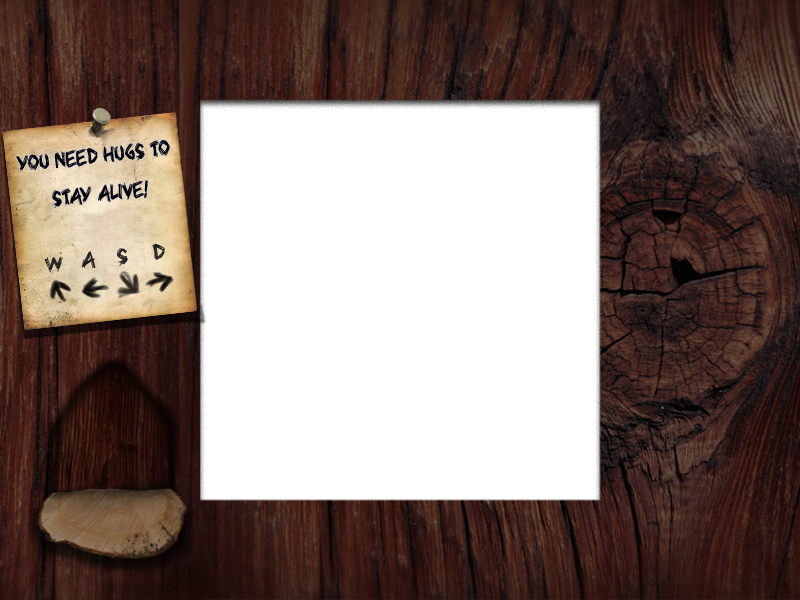
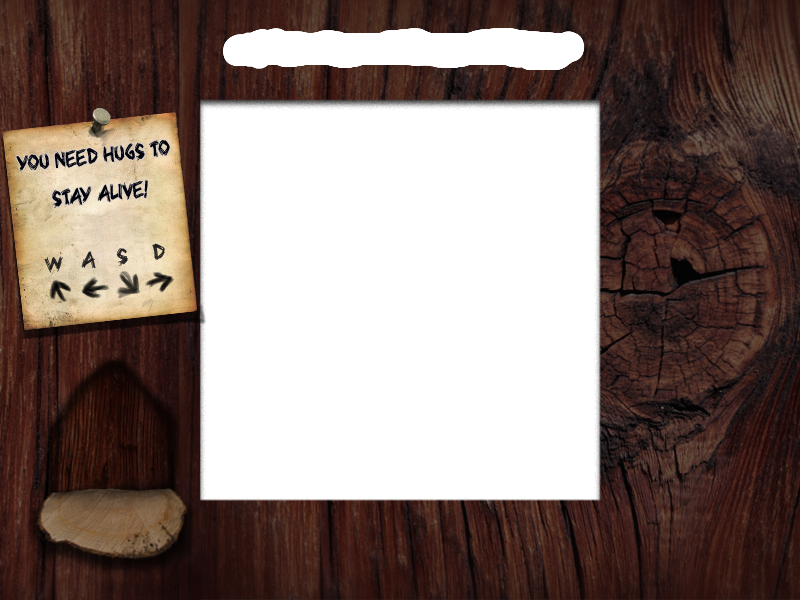
UI changes

Changed region(s): [[0.2812, 0.03, 0.75, 0.12]]

diff --git a/BearGame/BearGame/GameView.cs b/BearGame/BearGame/GameView.cs
@@ -53,10 +53,11 @@ namespace BearGame
             _vignetteTexture = content.Load<Texture2D>("UI\\Vignette");
 
             //Load health bar Textures
-            _meterTexture = content.Load<Texture2D>("UI\\health_meter");
+            //_meterTexture = content.Load<Texture2D>("UI\\healthmeter");
             _healthbarTexture = content.Load<Texture2D>("UI\\healthbar");
-            _skullTexture = content.Load<Texture2D>("UI\\skull");
-            _happyTexture = content.Load<Texture2D>("UI\\happy");
+            //_skullTexture = content.Load<Texture2D>("UI\\skull");
+            //_happyTexture = content.Load<Texture2D>("UI\\happy");
+            
             _backgroundTexture = content.Load<Texture2D>("UI\\UI_Background");
 
             //Load Villager Health Textures
@@ -92,7 +93,7 @@ namespace BearGame
 
         public void Draw()
         {
-            const int peopleLegendTextSpacing = 20;
+            //const int peopleLegendTextSpacing = 20;
             var vw = 800;
             var vh = 600;
             var ws = 400;
@@ -110,14 +111,15 @@ namespace BearGame
             }
             
             _uiBatch.Begin();
-
+            _uiBatch.Draw(_healthbarTexture, new Rectangle(215, 0, (int)(400 * healthPercentage), 200), Color.White);
+            
             _uiBatch.Draw(_backgroundTexture, new Vector2(0, 0), Color.White);
             //Draw Health Meter
-            _uiBatch.Draw(_skullTexture, new Rectangle(gameViewLeft, gameViewTop - 90, _skullTexture.Width, _skullTexture.Height), Color.White);
+            /*_uiBatch.Draw(_skullTexture, new Rectangle(gameViewLeft, gameViewTop - 90, _skullTexture.Width, _skullTexture.Height), Color.White);
             _uiBatch.Draw(_meterTexture, new Rectangle(gameViewLeft + _skullTexture.Width, gameViewTop - 90, (int)(_meterTexture.Width * healthPercentage), _meterTexture.Height), barColor);    
             _uiBatch.Draw(_healthbarTexture, new Rectangle(gameViewLeft + _skullTexture.Width, gameViewTop - 90, _healthbarTexture.Width, _healthbarTexture.Height), Color.White);
             _uiBatch.Draw(_happyTexture, new Rectangle(gameViewLeft + _healthbarTexture.Width + _skullTexture.Width, gameViewTop - 90, _happyTexture.Width, _happyTexture.Height), Color.White);
-            
+            */
             //Draw People Legend
             //_uiBatch.DrawString(_uiFont, "Legend", new Vector2(650, 150), Color.White);
             int yPeople = 100;
